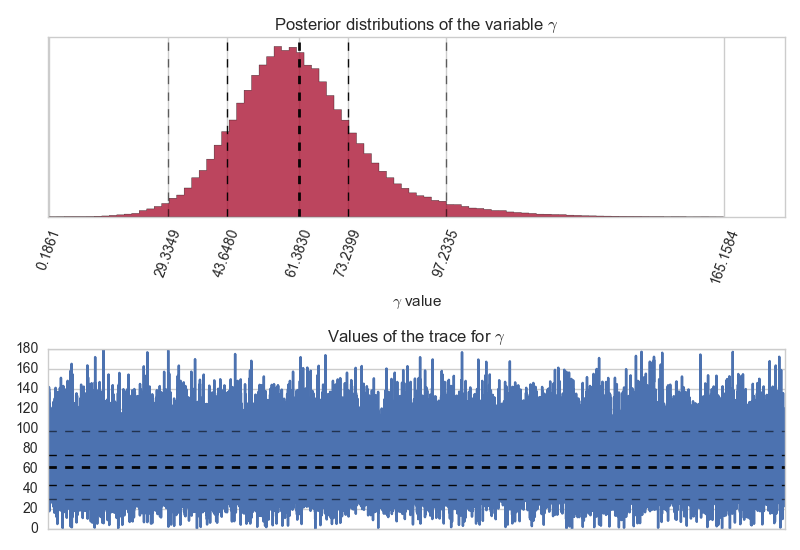
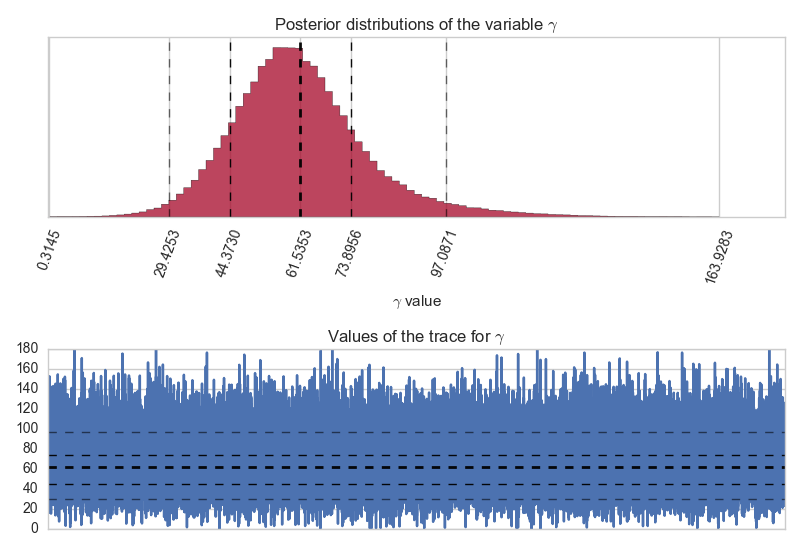
combiner for docker

diff --git a/combiner_pymc.py b/combiner_pymc.py
@@ -1,8 +1,7 @@
-import numpy as np
-import math
+import pymc, seaborn as sns
+import sys
+import gzip
 import commons
-import pymc
-import seaborn as sns
 from pymc import Exponential, deterministic, Poisson, Uniform, Normal, observed, MCMC, Matplot, stochastic
 from itertools import combinations
 from ggsz_native import plot, plot_2d_hist
@@ -11,6 +10,8 @@ import matplotlib.pyplot as plt
 import matplotlib
 import matplotlib.ticker
 
+sys.path.append('/home/pygammacombo')
+
 import PyGammaCombo
 tstr = PyGammaCombo.TString
 
@@ -18,8 +19,6 @@ tstr = PyGammaCombo.TString
 sns.set_style("whitegrid")
 matplotlib.rcParams.update({'font.size': 10})
 N = 1000000 # Sample size (N/10 used for burning out)
-number_of_bins = 100
-load_last_model = False
 pgc_utils = PyGammaCombo.gammacombo_utils
 cout = PyGammaCombo.gammacombo_utils.getCout()
 
@@ -32,32 +31,25 @@ if __name__ == "__main__":
         rB = Uniform("rB", doc='$r_B$', lower=0.02, upper=0.2)
         var_list = [gamma, deltaB, rB]
         gce = PyGammaCombo.gammacombo_utils.getGammaComboEngine("")
-        cmb = gce.getCombiner(26)
+        cmb = gce.getCombiner(113)
         cmb.combine()
         parameters = cmb.getParameters()
         pdf = cmb.getPdf()
 
         #Averaged experiments
         @stochastic
-        def ggsz(gamma=gamma, deltaB=deltaB, rB=rB, value=0):
+        def combi(gamma=gamma, deltaB=deltaB, rB=rB, value=0):
             parameters.setRealValue("g", commons.degToRad(gamma))
             parameters.setRealValue("r_dk", rB)
             parameters.setRealValue("d_dk", commons.degToRad(deltaB))
             return pdf.getLogVal()
 
-        # Model
-        if load_last_model:
-            mcmc = pymc.database.pickle.load('mcmc-{}_combiner.pickle'.format(name))
-        else:
-            mcmc = MCMC([ggsz, gamma, deltaB, rB],
-                        db='pickle',
-                        dbmode='w',
-                        dbname='mcmc-{}_combiner.pickle'.format(name))
-            mcmc.sample(iter = N, burn = min(5000, int(N/10)), thin = 1)
+        mcmc = MCMC([combi, gamma, deltaB, rB],
+                    db='pickle',
+                    dbmode='w',
+                    dbname='mcmc-{}_combiner.pickle'.format(name))
+        mcmc.sample(iter = N, burn = min(5000, int(N/10)), thin = 1)
 
         for v in var_list:
-            plot(mcmc.trace(v.__name__)[:], v.__doc__, "pics/{}_{}_combiner.png".format(name, v.__name__))
-
-        for x,y in combinations(var_list, 2):
-            plot_2d_hist(mcmc.trace(x.__name__)[:], mcmc.trace(y.__name__)[:],
-                         "pics/{}_{}-{}_hist_combiner.png".format(name, x.__name__, y.__name__))
+            with gzip.open("/output/{}.dat.gz".format(v.__name__), 'wb') as file:
+                file.write(mcmc.trace(v.__name__)[:].tostring())
